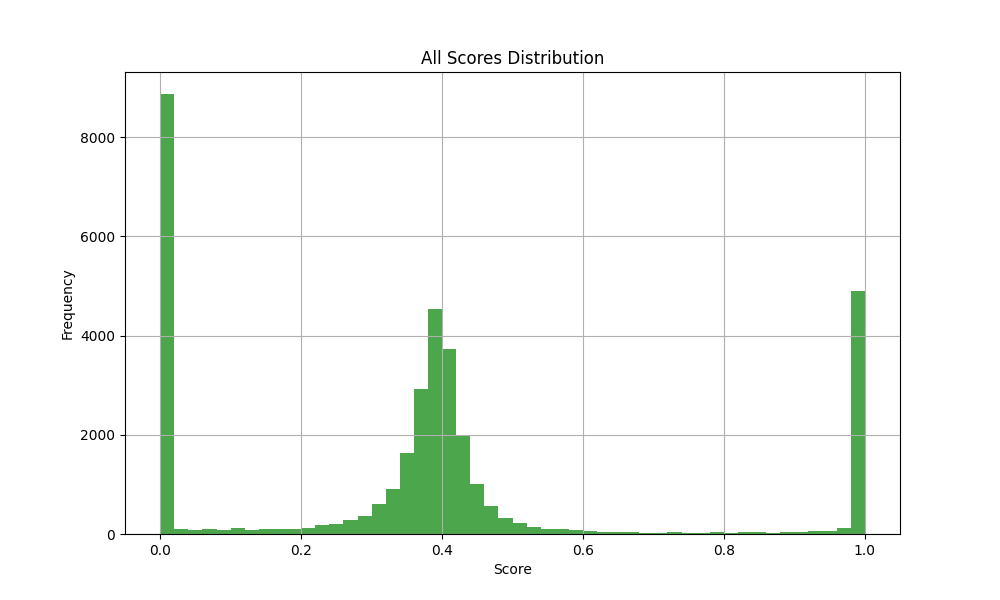
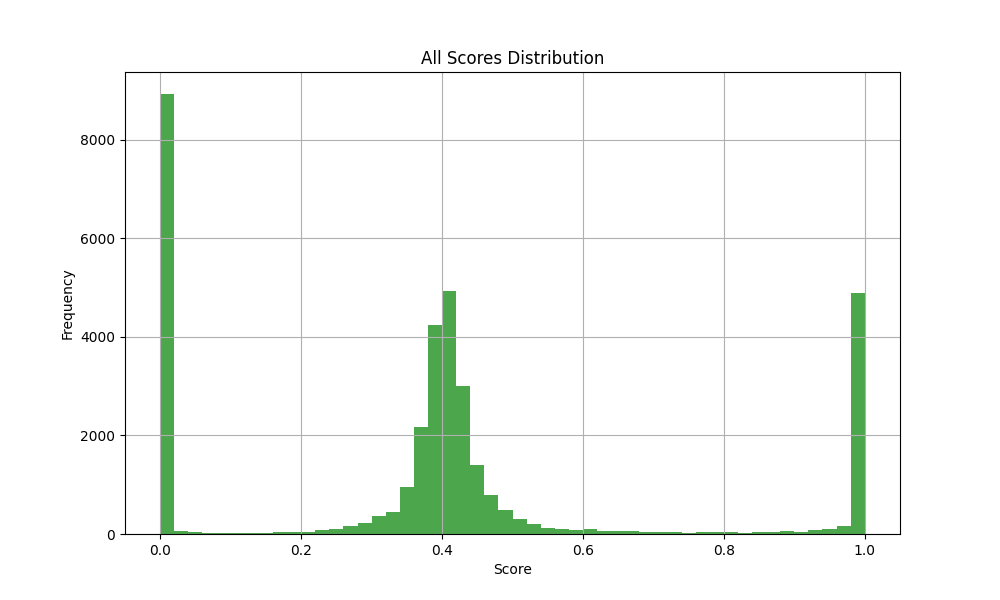
update

diff --git a/model/models.py b/model/models.py
@@ -1,7 +1,8 @@
 import torch
 import torch.nn as nn
 import torch.nn.functional as F
-from torch_geometric.nn import GCNConv
+from torch_geometric.nn import GCNConv, RGCNConv, NNConv, MessagePassing
+from torch_geometric.utils import softmax
 
 """
 all_node_emb = GNN(edge_index)
@@ -13,7 +14,7 @@ loss.backward()
 """
 
 class NeuralCF(nn.Module):
-    def __init__(self, num_users, num_items, num_nodes=8298, num_relations=0, emb_size=128, hidden_layers=[128, 64, 32], user_init=None, item_init=None):
+    def __init__(self, num_users, num_items, num_nodes=8298, num_relations=3, emb_size=128, hidden_layers=[128, 64, 32], user_init=None, item_init=None):
         super(NeuralCF, self).__init__()
         """
             num_users       :   술 노드의 개수
@@ -32,9 +33,19 @@ class NeuralCF(nn.Module):
         
         self.embedding = nn.Embedding(num_nodes, emb_size) # GNN에서 사용될 노드 임베딩
         
+        # RGNN
+        self.rgcn1 = RGCNConv(emb_size, emb_size, num_relations)
+        self.rgcn2 = RGCNConv(emb_size, emb_size, num_relations)
+        self.rgcn3 = RGCNConv(emb_size, emb_size, num_relations)
+        
+        self.wrgcn = WeightedRGCNConv(emb_size, emb_size, num_relations) # GNN layer
+        self.wrgcn2 = WeightedRGCNConv(emb_size, emb_size, num_relations)
+        self.wrgcn3 = WeightedRGCNConv(emb_size, emb_size, num_relations)
+        
         # GNN
         self.conv1 = GCNConv(emb_size, emb_size) # GNN layer
         self.conv2 = GCNConv(emb_size, emb_size)
+        self.conv3 = GCNConv(emb_size, emb_size)
         
         # GMF 
         self.user_emb_gmf = nn.Embedding(num_users, emb_size)
@@ -70,17 +81,29 @@ class NeuralCF(nn.Module):
         # 최종 결과 출력층 
         self.output_layer = nn.Linear(hidden_layers[-1] + emb_size, 1)
 
-    def forward(self, user_indices, item_indices, edge_index, edge_weight=None):
+    def forward(self, user_indices, item_indices, edge_index, edge_type, edge_weight=None):
         """
             user_indices :   술 노드의 인덱스
             item_indices :   음식 노드의 인덱스
             edge_index   :   GNN에서 사용할 edge_index
             edge_weight  :   GNN에서 사용할 edge_weight (default: None)
         """
-        # GNN 기반 임베딩
+        # RGCN 기반 임베딩
         x = self.embedding.weight
+        
+        """x = self.rgcn1(x, edge_index, edge_type)
+        x = self.rgcn2(x, edge_index, edge_type)
+        x = self.rgcn3(x, edge_index, edge_type)"""
+        
+        x = self.wrgcn(x, edge_index, edge_type, edge_weight)
+        x = self.wrgcn2(x, edge_index, edge_type, edge_weight)
+        x = self.wrgcn3(x, edge_index, edge_type, edge_weight)
+        
+        # GNN 기반 임베딩
+        """x = self.embedding.weight
         x = self.conv1(x, edge_index, edge_weight)
         x = self.conv2(x, edge_index, edge_weight)
+        x = self.conv3(x, edge_index, edge_weight)"""
 
         # GMF 임베딩 (가능하면 별도 레이어로 분리)
         gmf_user_emb = self.user_emb_gmf
@@ -112,3 +135,62 @@ class NeuralCF(nn.Module):
         logits = self.output_layer(final_input)
 
         return torch.sigmoid(logits).squeeze()
+
+
+class WeightedRGCNConv(MessagePassing):
+    def __init__(self, in_channels, out_channels, num_relations, aggr='add', bias=True):
+        super().__init__(aggr=aggr)
+        self.num_relations = num_relations
+        self.in_channels = in_channels
+        self.out_channels = out_channels
+
+        # 각 관계(r)마다 weight matrix 생성
+        self.rel_lins = nn.ModuleList([
+            nn.Linear(in_channels, out_channels, bias=False) for _ in range(num_relations)
+        ])
+
+        self.root = nn.Linear(in_channels, out_channels, bias=False)  # 자기 자신
+        self.bias = nn.Parameter(torch.Tensor(out_channels)) if bias else None
+        self.reset_parameters()
+
+    def reset_parameters(self):
+        for lin in self.rel_lins:
+            lin.reset_parameters()
+        self.root.reset_parameters()
+        if self.bias is not None:
+            nn.init.zeros_(self.bias)
+
+    def forward(self, x, edge_index, edge_type, edge_weight=None):
+        '''
+        x: [num_nodes, in_channels]
+        edge_index: [2, num_edges]
+        edge_type: [num_edges]
+        edge_weight: [num_edges] or None
+        '''
+        if edge_weight is None:
+            edge_weight = torch.ones(edge_index.size(1), device=edge_index.device)
+
+        return self.propagate(edge_index, x=x, edge_type=edge_type, edge_weight=edge_weight)
+
+    def message(self, x_j, edge_type, edge_weight):
+        '''
+        x_j: source node features [num_edges, in_channels]
+        edge_type: edge types [num_edges]
+        edge_weight: edge weights [num_edges]
+        '''
+        # 각 관계에 따라 다른 transformation
+        out = torch.zeros(x_j.size(0), self.out_channels, device=x_j.device)
+
+        for r in range(self.num_relations):
+            mask = edge_type == r
+            if mask.sum() > 0:
+                transformed = self.rel_lins[r](x_j[mask])
+                out[mask] = edge_weight[mask].unsqueeze(-1) * transformed
+
+        return out
+
+    def update(self, aggr_out, x):
+        out = aggr_out + self.root(x)
+        if self.bias is not None:
+            out = out + self.bias
+        return out

diff --git a/model/train.py b/model/train.py
@@ -31,7 +31,7 @@ class EarlyStopping:
             self.best_score = val_loss
             self.counter = 0
 
-def train_model(model, train_loader, val_loader, edges_index, edges_weights, num_epochs=10, lr=0.001, weight_decay=1e-5):
+def train_model(model, train_loader, val_loader, edges_index, edges_weights, edges_type, num_epochs=10, lr=0.001, weight_decay=1e-5):
     device = torch.device('cuda:0' if torch.cuda.is_available() else 'cpu')
     torch.manual_seed(123)
     
@@ -39,6 +39,7 @@ def train_model(model, train_loader, val_loader, edges_index, edges_weights, num
     
     edges_index = edges_index.to(device)
     edges_weights = edges_weights.to(device)
+    edges_type = edges_type.to(device).long()
     model.train()
 
     criterion = nn.BCELoss()
@@ -62,7 +63,7 @@ def train_model(model, train_loader, val_loader, edges_index, edges_weights, num
             user, item, label = user.to(device), item.to(device), label.to(device)
 
             optimizer.zero_grad()
-            output = model(user, item, edges_index, edges_weights)
+            output = model(user, item, edges_index, edges_type, edges_weights)
             loss = criterion(output, label)
 
             loss.backward()
@@ -91,7 +92,7 @@ def train_model(model, train_loader, val_loader, edges_index, edges_weights, num
 
                 user, item, label = user.to(device), item.to(device), label.to(device)
 
-                output = model(user, item, edges_index, edges_weights)
+                output = model(user, item, edges_index, edges_type, edges_weights)
                 loss = criterion(output, label)
 
                 val_loss += loss.item() * label.size(0)
@@ -117,7 +118,7 @@ def train_model(model, train_loader, val_loader, edges_index, edges_weights, num
             torch.save(best_model, "./model/checkpoint/best_model.pth")
             break
 
-def test_visualization(model, test_loader, edges_index, edges_weights):
+def test_visualization(model, test_loader, edges_index, edges_weights, edges_type):
     device = torch.device('cuda:0' if torch.cuda.is_available() else 'cpu')
     model.to(device)
 
@@ -136,7 +137,7 @@ def test_visualization(model, test_loader, edges_index, edges_weights):
 
             user, item, label = user.to(device), item.to(device), label.to(device)
 
-            output = model(user, item, edges_index, edges_weights)
+            output = model(user, item, edges_index, edges_type, edges_weights)
             
             pos_scores.extend(output[label == 1].cpu().numpy())
             neg_scores.extend(output[label == 0].cpu().numpy())
@@ -152,7 +153,16 @@ if __name__ == "__main__":
 
     #print(lid_to_idx)
     print("Loading graph data...")
-    edges_indexes, edges_weights = edges_index()
+    
+    edge_type_map ={
+        'liqr-ingr': 0,
+        'ingr-ingr': 1,
+        'liqr-liqr': 1,
+        'ingr-fcomp': 2,
+        'ingr-dcomp': 2
+    }
+    
+    edges_indexes, edges_weights, edges_type = edges_index(edge_type_map)
     
     print("Loading dataset...")
     positive_pairs = pd.read_csv("./liquor_good_ingredients.csv")
@@ -193,13 +203,13 @@ if __name__ == "__main__":
     model = NeuralCF(num_users=155, num_items=6496, emb_size=128)
 
     print("Training model...")
-    train_model(model=model, train_loader=train_loader, val_loader=val_loader ,edges_index=edges_indexes, edges_weights=edges_weights, num_epochs=200)
+    train_model(model=model, train_loader=train_loader, val_loader=val_loader , edges_type=edges_type, edges_index=edges_indexes, edges_weights=edges_weights, num_epochs=200)
     
     model.load_state_dict(torch.load("./model/checkpoint/best_model.pth"))
     
     print("Testing model...")
     
-    test_visualization(model=model, test_loader=test_loader, edges_index=edges_indexes, edges_weights=edges_weights)
-    all_score_visualization(test_loader=test_loader, edges_index=edges_indexes, edges_weights=edges_weights)
+    test_visualization(model=model, test_loader=test_loader, edges_index=edges_indexes, edges_weights=edges_weights, edges_type=edges_type)
+    all_score_visualization(test_loader=test_loader, edges_index=edges_indexes, edges_weights=edges_weights, edges_type=edges_type)
     
     

diff --git a/model/dataset.py b/model/dataset.py
@@ -34,29 +34,33 @@ def map_graph_nodes():
     
     return nodes_map
 
-def edges_index():
+def edges_index(edge_type_map):
     edges_df = pd.read_csv("./dataset/edges_191120_updated.csv")
     nodes_map = map_graph_nodes()
 
     edges_index = []
     edges_weights = []
+    edges_type = []
 
     for _, row in tqdm(edges_df.iterrows(), desc="Processing edges...", total=len(edges_df)):
         src, tgt = row['id_1'], row['id_2']
-
+        type = row['edge_type']
+        
         src_idx = nodes_map[src]
         tgt_idx = nodes_map[tgt]
         
         edges_index.append((src_idx, tgt_idx))
         edges_weights.append(row['score']) if not pd.isna(row['score']) else edges_weights.append(0.1)
+        edges_type.append(edge_type_map[type])
         
     edge_index = torch.tensor(edges_index, dtype=torch.long).t().contiguous()
     edge_weights = torch.tensor(edges_weights, dtype=torch.float32)
+    edges_type = torch.tensor(edges_type, dtype=torch.long)
     
     print(f"Edge index shape: {edge_index.shape}")
     print(f"Edge weights shape: {edge_weights.shape}")
 
-    return edge_index, edge_weights
+    return edge_index, edge_weights, edges_type
 
 class InteractionDataset(Dataset):
     def __init__(self, positive_pairs, hard_negatives, num_users, num_items, negative_ratio=1.0):

diff --git a/model/plot.py b/model/plot.py
@@ -29,9 +29,9 @@ def plot_score_distribution(pos_score, neg_score, title="Score Distribution"):
     plt.ylabel('Frequency')
     plt.legend()
     plt.grid()
-    plt.savefig("./figure/plot_score_distribution_output3.png")
+    plt.savefig("./figure/rgcn_plot0.png")
             
-def all_score_visualization(test_loader, edges_index, edges_weights):
+def all_score_visualization(test_loader, edges_index, edges_weights, edges_type):
     all_scores = []
     
     model = NeuralCF(num_users=155, num_items=6496, emb_size=128)
@@ -40,7 +40,7 @@ def all_score_visualization(test_loader, edges_index, edges_weights):
     
     with torch.no_grad():
         for user, item, label in test_loader:
-            preds = model(user, item, edges_index, edges_weights)
+            preds = model(user, item, edges_index, edges_type, edges_weights)
             all_scores.extend(preds.cpu().numpy())
             
     plt.figure(figsize=(10, 6))
